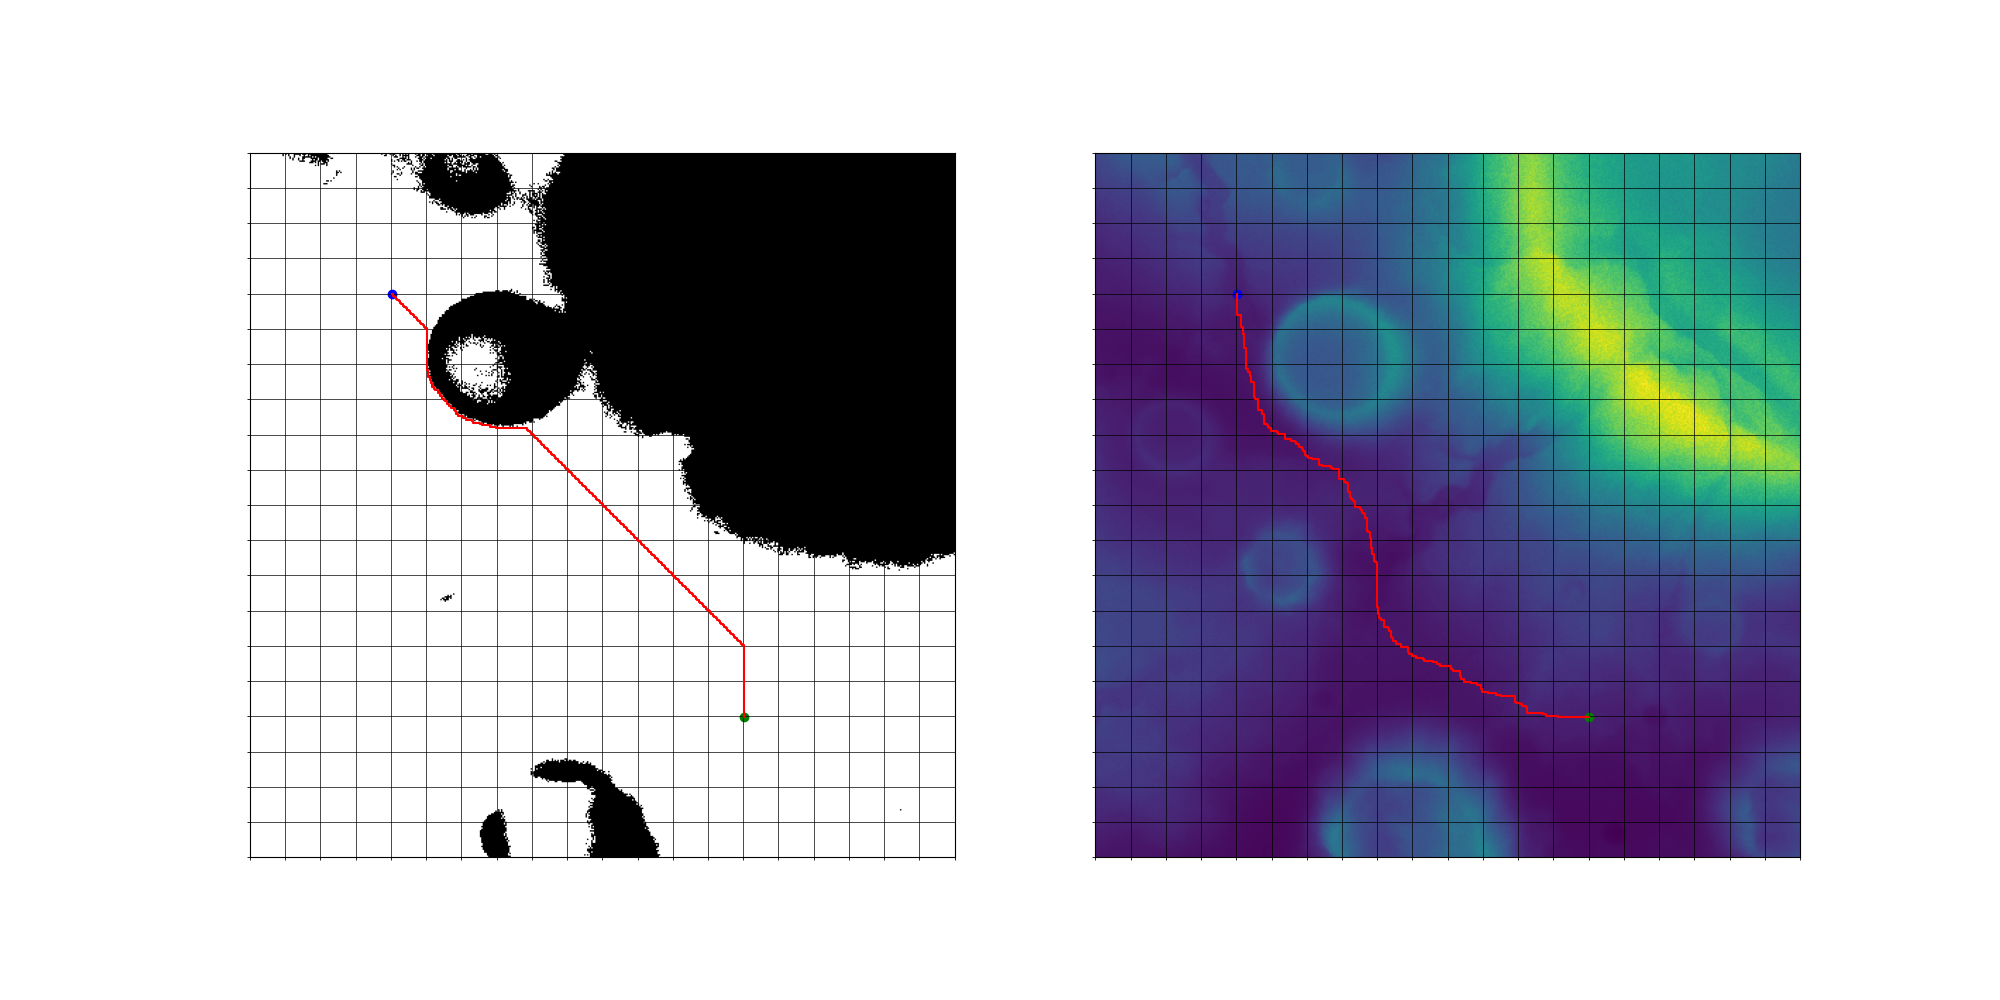
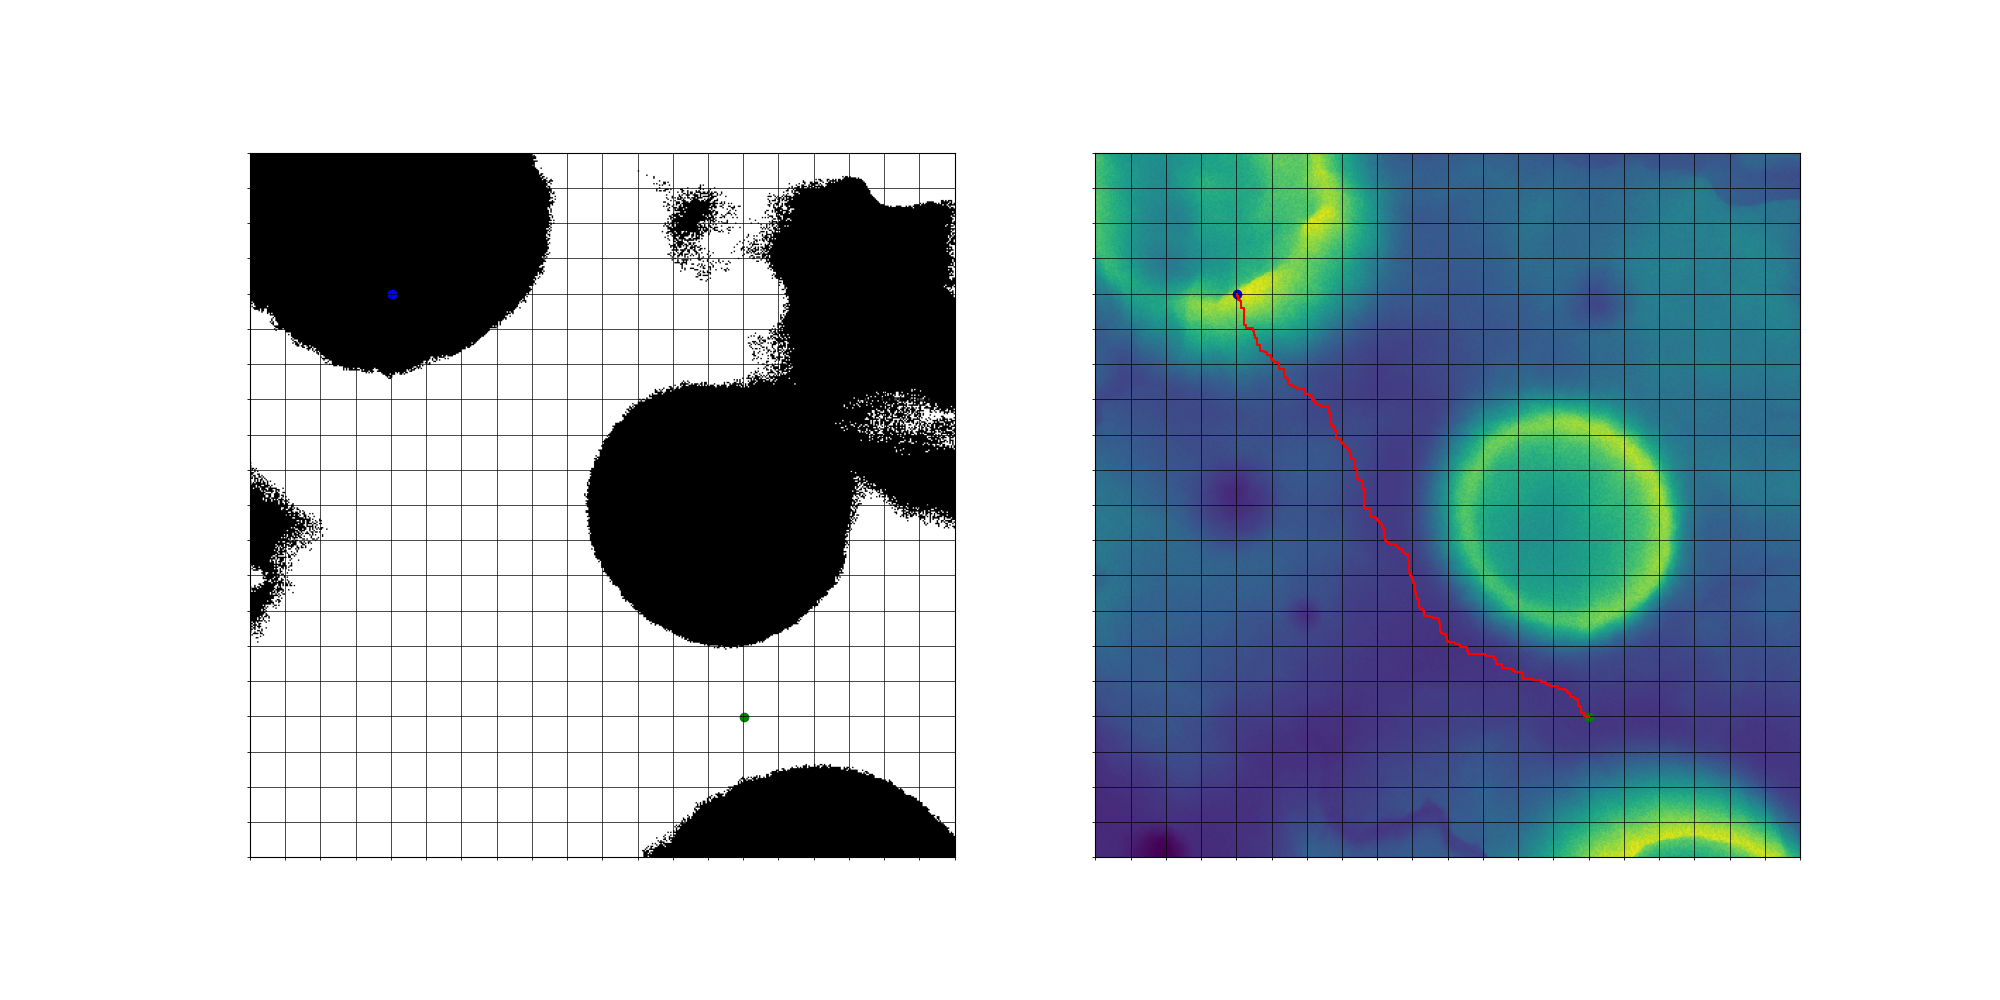
update RouteFinding.py

diff --git a/algorithm/src/RouteFinding.py b/algorithm/src/RouteFinding.py
@@ -5,6 +5,7 @@ import matplotlib.pyplot as plt
 from scipy.ndimage import distance_transform_edt
 import sys
 import time
+import json
 
 
 folder_path = '../../mapset/'
@@ -30,6 +31,7 @@ file_dicts = [
         "goal": [0, 10],
     },
 ]
+json_path = 'results.json'
 
 
 def map_handler(path, file_dicts, pun_threshold=20):
@@ -249,27 +251,60 @@ class AStarWithPun(AStarWithH):
         return None  # 如果没有找到路径，则返回None
 
 
-def plot_paths(elevation_map, paths_info, np_start, np_goal, title):
+def plot_paths(elevation_map, paths_infos, np_start, np_goal):
     """
     绘制和比较路径。
-    :param elevation_map: 高程图。
-    :param paths_info: 包含路径数据和相关信息的列表，格式为[(path, color, label), ...]。
-    :param title: 图表的标题。
     """
-    plt.figure(figsize=(10, 10))
-    plt.imshow(elevation_map, cmap='terrain')
-    for path, color, label in paths_info:
-        plt.plot([p[1] for p in path], [p[0] for p in path], color=color, label=label)
-    plt.scatter([np_start[1], np_goal[1]], [np_start[0], np_goal[0]], color=['black', 'yellow'], zorder=5, label='Start/Goal')
-    plt.legend()
-    plt.title(title)
-    plt.xlabel('X Coordinate')
-    plt.ylabel('Y Coordinate')
-    plt.show()
+    colors = ['red', 'green', 'blue', 'magenta', 'cyan']
+    paths_infos_group1 = []
+    paths_infos_group2 = []
+    i = 0
+    for path, label in paths_infos:
+        if path is None:
+            i += 1
+            continue
+        if label in ["AStar", "Dijkstra", "BFS"]:
+            paths_infos_group1.append((path, colors[i], label))
+        else:
+            paths_infos_group2.append((path, colors[i], label))
+        i += 1
+    plt.figure(figsize=(20, 10))
+
+    ax1 = plt.subplot(1, 2, 1)
+    ax1.imshow(elevation_map, cmap='viridis')
+    ax1.axis('on')
+    ax1.tick_params(left=False, labelleft=False, bottom=False, labelbottom=False)
+    ax1.set_xticks(np.arange(-0.5, 500, 25), minor=True)
+    ax1.set_yticks(np.arange(-0.5, 500, 25), minor=True)
+    ax1.grid(which="minor", color="black", linestyle='-', linewidth=0.5)
+    for path, color, label in paths_infos_group1:
+        ax1.plot([p[1] for p in path], [p[0] for p in path], color=color, label=label)
+    ax1.scatter(np_start[1], np_start[0], color=['black'], zorder=5, label='Start')
+    ax1.scatter(np_goal[1], np_goal[0], color=['yellow'], zorder=5, label='Goal')
+    ax1.legend()
+    ax1.set_title('Paths using AStar, Dijkstra, and BFS')
+
+    ax2 = plt.subplot(1, 2, 2)
+    ax2.imshow(elevation_map, cmap='viridis')
+    ax2.axis('on')
+    ax2.tick_params(left=False, labelleft=False, bottom=False, labelbottom=False)
+    ax2.set_xticks(np.arange(-0.5, 500, 25), minor=True)
+    ax2.set_yticks(np.arange(-0.5, 500, 25), minor=True)
+    ax2.grid(which="minor", color="black", linestyle='-', linewidth=0.5)
+    for path, color, label in paths_infos_group2:
+        ax2.plot([p[1] for p in path], [p[0] for p in path], color=color, label=label)
+    ax2.scatter(np_start[1], np_start[0], color=['black'], zorder=5, label='Start')
+    ax2.scatter(np_goal[1], np_goal[0], color=['yellow'], zorder=5, label='Goal')
+    ax2.legend()
+    ax2.set_title('Paths using AStarWithH and AStarWithPun')
+    plt.savefig(f'./fig/map-{map_id}.png')
+    # plt.show()
 
 
 if __name__ == '__main__':
+    ana_dict = []
     map_set, tri_map_set, map_infos = map_handler(folder_path, file_dicts, pun_threshold=20)
+    map_id = 0
     for elevation_map, tri_map, map_info in zip(map_set, tri_map_set, map_infos):
         start = map_info["np_start"]
         goal = map_info["np_goal"]
@@ -280,13 +315,9 @@ if __name__ == '__main__':
             "AStarWithH": AStarWithH(elevation_map, tri_map, start, goal, delta=20.0, lambda_val=2.0),
             "AStarWithPun": AStarWithPun(elevation_map, tri_map, start, goal, delta=20.0, lambda_val=2.0),
         }
-        # 存储路径和相关信息
-        paths_info_group1 = []  # 对于AStar, Dijkstra, BFS
-        paths_info_group2 = []  # 对于AStarWithH, AStarWithPun
-        colors = ['red', 'green', 'blue', 'magenta', 'cyan']
-        i = 0
+        path_infos = []
         for name, algorithm in algorithms.items():
-            print(f"\n开始查找：{name}")
+            print(f"\n当前地图ID：{map_id}\n开始查找：{name}")
             start_time = time.time()
             path = algorithm.find_path()
             end_time = time.time()
@@ -298,16 +329,21 @@ if __name__ == '__main__':
                 print(f"扩展节点数: {algorithm.nodes_expanded}")
                 print(f"路径最大高程差: {algorithm.max_elevation_change}")
                 print(f"路径累计高程差: {algorithm.total_elevation_change}")
+                ana_dict.append(
+                    {
+                        "地图编号": map_id,
+                        "算法名称": name,
+                        "路径规划长度": len(path),
+                        "计算时间": execution_time,
+                        "扩展节点数": algorithm.nodes_expanded,
+                        "路径最大高程差": algorithm.max_elevation_change,
+                        "路径累计高程差": algorithm.total_elevation_change,
+                    }
+                )
             else:
                 print("\n未找到路径")
-            if name in ["AStar", "Dijkstra", "BFS"]:
-                if path is not None:
-                    paths_info_group1.append((path, colors[i], name))
-            else:
-                if path is not None:
-                    paths_info_group2.append((path, colors[i], name))
-            i += 1
-        # 绘制第一组路径（AStar, Dijkstra, BFS）
-        plot_paths(elevation_map, paths_info_group1, start, goal, 'Paths using AStar, Dijkstra, and BFS')
-        # 绘制第二组路径（AStarWithH, AStarWithPun）
-        plot_paths(elevation_map, paths_info_group2, start, goal, 'Paths using AStarWithH and AStarWithPun')
+            path_infos.append((path, name))
+        plot_paths(elevation_map, path_infos, start, goal)
+        map_id += 1
+    with open(json_path, 'w', encoding='utf-8') as file:
+        json.dump(ana_dict, file, ensure_ascii=False, indent=4)
